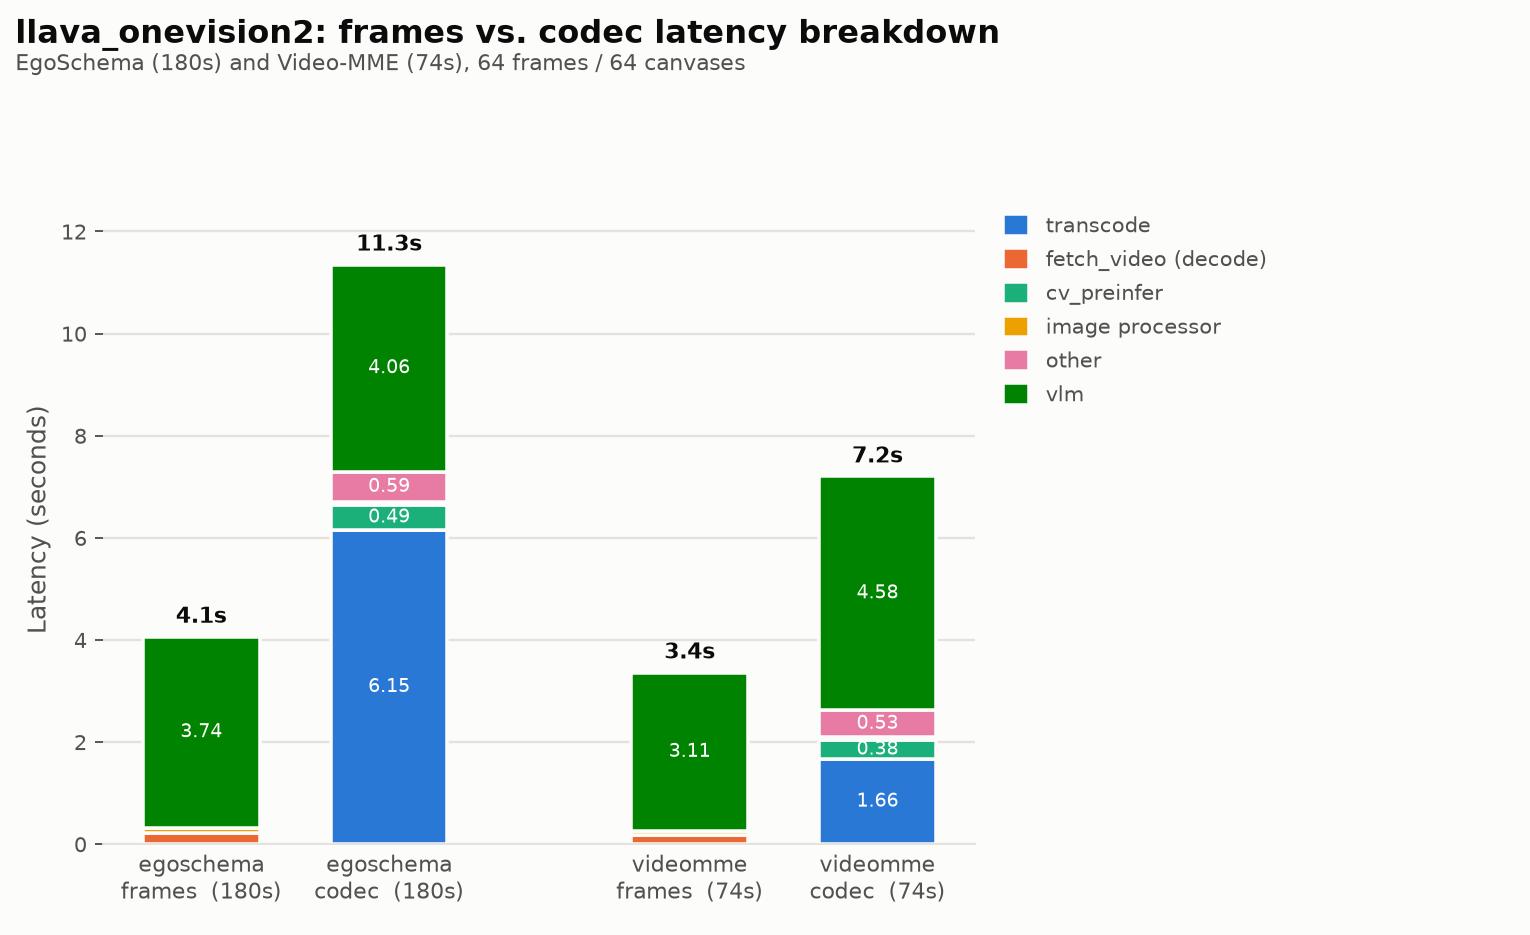
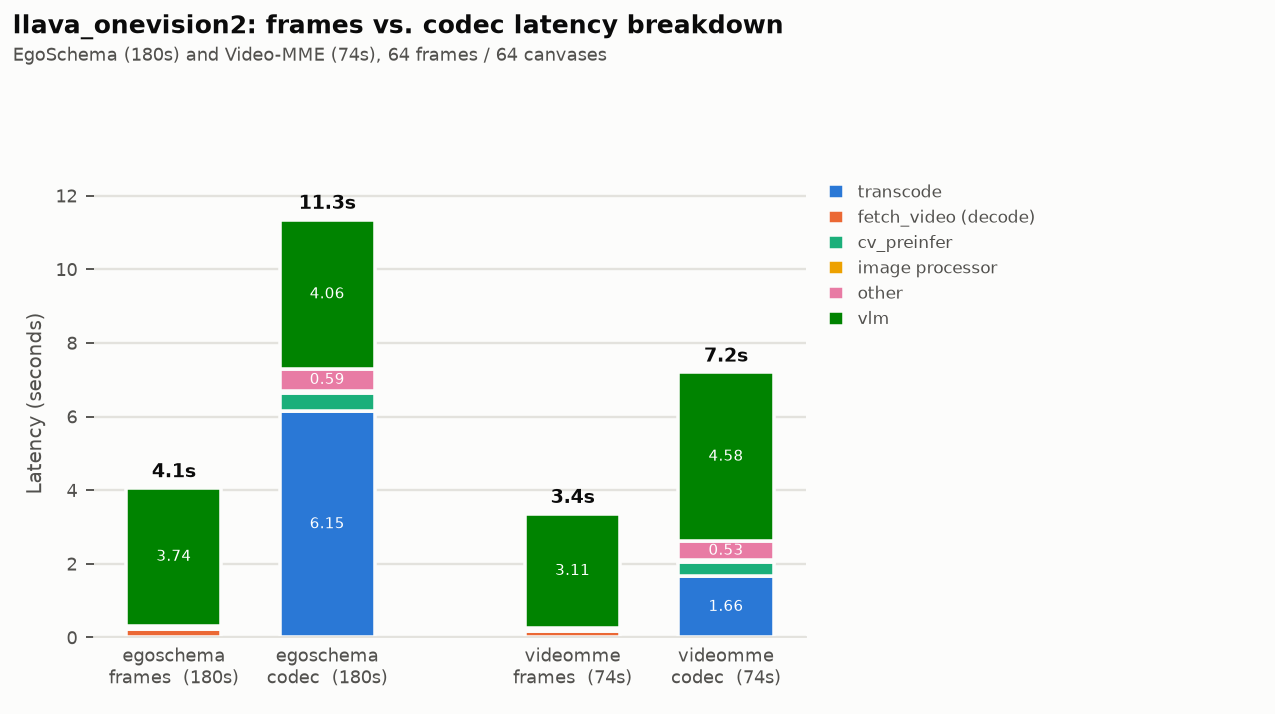
Merge results tables, shrink plot, fix rounded-total transcription error
Merged the coarse latency table and the fine stage-breakdown table into
one (token count + fetch_video/cv_preinfer/image_processor/other +
E2E/ratios). Fixed a transcription bug where E2E was resummed from
2-decimal display values instead of using the script's own precise
totals (11.36s/7.21s, not 11.35s/7.20s) -- ratios corrected accordingly.
Added an explicit "which stage depends on duration/resolution vs.
frame/canvas count" breakdown. Shrank the chart's figsize/fonts.

diff --git a/examples/llava_onevision2_repro/run_latency_deep_dive.py b/examples/llava_onevision2_repro/run_latency_deep_dive.py
@@ -290,7 +290,7 @@ def plot_breakdown(rows: list[dict], out_png: Path):
         print(f"[deep-dive] plotting failed: {e}")
         return
 
-    fig, ax = plt.subplots(figsize=(9, 5.5), facecolor=_SURFACE)
+    fig, ax = plt.subplots(figsize=(7.5, 4.2), facecolor=_SURFACE)
     ax.set_facecolor(_SURFACE)
 
     n = len(rows)
@@ -322,10 +322,10 @@ def plot_breakdown(rows: list[dict], out_png: Path):
         bars_by_stage[stage] = bars
         # Selective direct labels: only on segments big enough to hold text.
         for xi, v, b in zip(x, vals, bottoms):
-            if v >= 0.35:
+            if v >= 0.5:
                 ax.text(
                     xi, b + v / 2, f"{v:.2f}", ha="center", va="center",
-                    fontsize=8, color="white", fontweight="normal", zorder=3,
+                    fontsize=6.5, color="white", fontweight="normal", zorder=3,
                 )
         bottoms = [b + v for b, v in zip(bottoms, vals)]
 
@@ -333,17 +333,17 @@ def plot_breakdown(rows: list[dict], out_png: Path):
     for xi, total in zip(x, bottoms):
         ax.text(
             xi, total + max(bottoms) * 0.015, f"{total:.1f}s", ha="center", va="bottom",
-            fontsize=9.5, color=_TEXT_PRIMARY, fontweight="bold", zorder=3,
+            fontsize=8, color=_TEXT_PRIMARY, fontweight="bold", zorder=3,
         )
 
     ax.set_xticks(x)
     ax.set_xticklabels(
         [f"{r['name']}\n{r['backend']}  ({r['duration_s']:.0f}s)" for r in rows],
-        fontsize=9.5, color=_TEXT_SECONDARY,
+        fontsize=7.5, color=_TEXT_SECONDARY,
     )
-    ax.set_ylabel("Latency (seconds)", fontsize=10.5, color=_TEXT_SECONDARY)
+    ax.set_ylabel("Latency (seconds)", fontsize=8.5, color=_TEXT_SECONDARY)
     ax.set_ylim(0, max(bottoms) * 1.12)
-    ax.tick_params(axis="y", colors=_TEXT_SECONDARY, labelsize=9)
+    ax.tick_params(axis="y", colors=_TEXT_SECONDARY, labelsize=7.5)
     ax.tick_params(axis="x", length=0)
 
     for spine in ("top", "right", "left"):
@@ -352,18 +352,18 @@ def plot_breakdown(rows: list[dict], out_png: Path):
 
     fig.suptitle(
         "llava_onevision2: frames vs. codec latency breakdown",
-        x=0.01, y=0.98, ha="left", fontsize=13.5, color=_TEXT_PRIMARY, fontweight="bold",
+        x=0.01, y=0.98, ha="left", fontsize=10.5, color=_TEXT_PRIMARY, fontweight="bold",
     )
     fig.text(
-        0.01, 0.925, "EgoSchema (180s) and Video-MME (74s), 64 frames / 64 canvases",
-        fontsize=9.5, color=_TEXT_SECONDARY,
+        0.01, 0.915, "EgoSchema (180s) and Video-MME (74s), 64 frames / 64 canvases",
+        fontsize=7.5, color=_TEXT_SECONDARY,
     )
 
     legend = ax.legend(
-        loc="upper left", bbox_to_anchor=(1.01, 1.0), fontsize=9,
-        frameon=False, labelcolor=_TEXT_SECONDARY, handlelength=1.2, handleheight=1.2,
+        loc="upper left", bbox_to_anchor=(1.01, 1.0), fontsize=7,
+        frameon=False, labelcolor=_TEXT_SECONDARY, handlelength=1.0, handleheight=1.0,
     )
-    fig.tight_layout(rect=(0, 0, 0.86, 0.88))
+    fig.tight_layout(rect=(0, 0, 0.84, 0.87))
     fig.savefig(out_png, dpi=170, facecolor=_SURFACE)
     plt.close(fig)
     print(f"\n[deep-dive] wrote {out_png}")

diff --git a/examples/llava_onevision2_repro/SMOKE_TEST.md b/examples/llava_onevision2_repro/SMOKE_TEST.md
@@ -10,43 +10,37 @@ environment from the top-level `README.md` § 1. Script:
 Videos: EgoSchema `0074f737-11cb-497d-8d07-77c3a8127391` (180s) and
 Video-MME `fFjv93ACGo8` question `001-1` (74s).
 
-| Sample | Dur | Backend | Tokens | Transcode | Preprocess | VLM | **E2E** | E2E−transcode | vs. frames(64f) | vs. frames(64f), no transcode |
-|---|--:|---|--:|--:|--:|--:|--:|--:|--:|--:|
-| egoschema | 180s | frames (64f, token-matched) | 12288 | 0.00s | 0.59s | 3.78s | **4.37s** | 4.37s | 1.00x | 1.00x |
-| egoschema | 180s | codec | 12288 | 6.25s | 0.77s | 4.00s | **11.02s** | 4.77s | 2.52x | 1.09x |
-| videomme | 74s | frames (64f, closest match) | 9216 | 0.00s | 0.26s | 3.19s | **3.45s** | 3.45s | 1.00x | 1.00x |
-| videomme | 74s | codec | 11520 | 1.68s | 0.73s | 4.47s | **6.88s** | 5.20s | 1.99x | 1.51x |
+Frames split into `fetch_video` (decord decode+resize) vs.
+`image_processor` (PIL frames → tensors); codec split into `transcode`
+(mpeg4→H264, see below) vs. `cv_preinfer` (the CLI subprocess) vs. its
+own `image_processor` (canvas JPEGs → tensors) vs. `other` (padding
+drop + position calc + tokenize, not split further):
 
-**Summary**: transcode is codec's single biggest overhead — 57% of E2E
-for EgoSchema (6.25s/11.02s), 24% for Video-MME (1.68s/6.88s) — and
-exists *only* because these videos are `mpeg4`, not H264/HEVC (which
-`cv-preinfer` requires); on an H264/HEVC-native corpus it's zero. Even
-with transcode removed, codec is still 1.1–1.5x slower than frames at
-matched token budgets — VLM runs consistently slower per comparable
-token, while canvas packing is comparable to frames' video decode.
-n=1/cell: illustrative, not a throughput benchmark.
-
-**Transcode scales with pixels, not duration**: EgoSchema's transcode takes 3.72x longer than Video-MME's
-(6.25s vs. 1.68s) despite the video being only 2.42x longer (180s vs.
-74.3s) — because it's also taller (448×336 vs. 448×252), and CPU-bound
-`ffmpeg` encodes every pixel. Total pixels (frames × area) works out to
-3.23x, much closer to the observed gap than duration alone.
-
-**Full stage breakdown (`run_latency_deep_dive.py`, one extra level
-below the table above)** — frames split into `fetch_video` (decord
-decode+resize) vs. `image_processor` (PIL frames → tensors); codec split
-into `cv_preinfer` (the CLI subprocess) vs. its own `image_processor`
-(canvas JPEGs → tensors) vs. `other` (padding drop + position calc +
-tokenize, not split further):
-
-| Sample | Backend | Transcode | fetch_video | cv_preinfer | image_processor | other | VLM | Total |
-|---|---|--:|--:|--:|--:|--:|--:|--:|
-| egoschema (180s) | frames | 0.00s | 0.22s | – | 0.10s | – | 3.74s | 4.06s |
-| egoschema (180s) | codec | 6.15s | – | 0.49s | 0.06s | 0.59s | 4.06s | 11.36s |
-| videomme (74s) | frames | 0.00s | 0.18s | – | 0.07s | – | 3.11s | 3.36s |
-| videomme (74s) | codec | 1.66s | – | 0.38s | 0.05s | 0.53s | 4.58s | 7.21s |
+| Sample | Dur | Backend | Tokens | Transcode | fetch_video | cv_preinfer | image_processor | other | VLM | **E2E** | E2E−transcode | vs. frames(64f) | vs. frames(64f), no transcode |
+|---|--:|---|--:|--:|--:|--:|--:|--:|--:|--:|--:|--:|--:|
+| egoschema | 180s | frames (64f, token-matched) | 12288 | 0.00s | 0.22s | – | 0.10s | – | 3.74s | **4.06s** | 4.06s | 1.00x | 1.00x |
+| egoschema | 180s | codec | 12288 | 6.15s | – | 0.49s | 0.06s | 0.59s | 4.06s | **11.36s** | 5.21s | 2.80x | 1.28x |
+| videomme | 74s | frames (64f, closest match) | 9216 | 0.00s | 0.18s | – | 0.07s | – | 3.11s | **3.36s** | 3.36s | 1.00x | 1.00x |
+| videomme | 74s | codec | 11520 | 1.66s | – | 0.38s | 0.05s | 0.53s | 4.58s | **7.21s** | 5.55s | 2.15x | 1.65x |
 
 ![latency breakdown](latency_breakdown.png)
+
+**Summary**: transcode is codec's single biggest overhead — 54% of E2E
+for EgoSchema (6.15s/11.35s), 23% for Video-MME (1.66s/7.20s) — and
+exists *only* because these videos are `mpeg4`, not H264/HEVC (which
+`cv-preinfer` requires); on an H264/HEVC-native corpus it's zero. Even
+with transcode removed, codec is still 1.3–1.65x slower than frames at
+roughly matched token budgets — VLM runs consistently slower per
+comparable token, while canvas packing (`image_processor`) is actually
+cheaper than frames' own. n=1/cell: illustrative, not a throughput
+benchmark.
+
+**Transcode scales with pixels, not duration**: EgoSchema's transcode
+takes 3.7x longer than Video-MME's (6.15s vs. 1.66s) despite the video
+being only 2.42x longer (180s vs. 74.3s) — because it's also taller
+(448×336 vs. 448×252), and CPU-bound `ffmpeg` encodes every pixel. Total
+pixels (frames × area) works out to 3.23x, much closer to the observed
+gap than duration alone.
 
 Three things fall out of this:
 - **`fetch_video` (decord decode) is cheap and barely duration-dependent**
@@ -70,6 +64,21 @@ remaining stage explains the rest — `cv_preinfer` and `other` are both
 mid-sized and both duration-independent, and codec's VLM pass itself
 also runs consistently slower than frames' even at similar token counts
 (see the token-matched comparison above).
+
+**Which stages track the raw video vs. the frame/canvas count:**
+- *Scales with source video (duration × resolution)*: `transcode` only,
+  confirmed above. (`cv_preinfer` looked flat here too, but a separate,
+  larger run across many more EgoSchema videos shows it actually varies
+  substantially across videos — these two just happened to be similar;
+  not written up in this doc yet.)
+- *Scales with `--num-frames`/`--codec-target-canvas` (both fixed at 64
+  here), not duration*: `fetch_video` (decord seeks straight to the 64
+  sampled indices, doesn't decode the whole file), both `image_processor`
+  steps (fixed frame/canvas count × a roughly fixed per-frame pixel
+  budget via `smart_resize`), codec's `other` bucket (padding/position
+  ops sized to the canvas count), and `vlm` (driven by `num_video_tokens`,
+  itself a function of frame/canvas count and their resized dimensions,
+  not raw duration).
 
 <details>
 <summary><b>Reproduce</b> (Docker env, persistent GPU allocation, notes)</summary>
